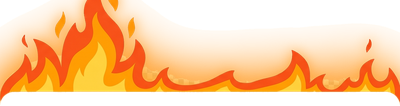
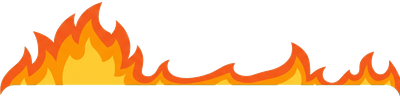
fix(report-share): ảnh lửa bỏ quầng hào quang, giữ trọn đỉnh lửa
Người dùng xuất ảnh thật rồi báo hai lỗi, và gửi ảnh nguồn mới đã hạ
bớt chiều cao ngọn lửa.

1. Đỉnh lửa bị cắt — LỖI CỦA TÔI: crop từ y=560 trong khi lửa bắt đầu ở
   y=487, tức tự tay cắt mất 73px đỉnh để tiết kiệm chiều cao thẻ. Nay
   crop chừa 8px phía trên ngọn cao nhất.
2. Quầng hào quang xấu — ngưỡng tách nền quá thấp nên giữ lại cả vùng
   sáng mờ quanh lửa. Ngưỡng nay warm-28, loại sạch quầng; mép lửa vẫn
   mượt vì ở mép R-B nhảy 0->200 trong một hai pixel.

Không còn cần bước làm mượt Gaussian: quầng đã bị loại ở ngưỡng nên
không còn gì để lộ vệt bàn cờ. File nhẹ đi 40% (47KB -> 28KB).

Bài học ghi vào checkpoint: khi cắt ảnh có chủ thể chạm mép, phải đo
bounding box của chủ thể trước rồi chừa biên — đừng chọn khung cắt theo
ngân sách bố cục.

Đã chạy thật: typecheck/lint/build exit 0 · Vitest 858/858 · render và
nhìn lại hai tấm thẻ cùng một tấm soi riêng dải lửa.

diff --git a/features/report-share/daily-report-share-card.tsx b/features/report-share/daily-report-share-card.tsx
@@ -267,14 +267,24 @@ const PROGRESS_INNER_HEIGHT = PROGRESS.height - PROGRESS.border * 2;
  *  trong khi lửa có `R ≫ B`. Thanh xanh trong ảnh gốc đã bị cắt bỏ vì thanh
  *  thật phải đổi chiều dài theo `%` và đổi màu theo `status`.
  *
- *  File kết quả: `public/images/flame-strip.png`, 400×106 (2× cỡ hiển thị cho
+ *  ⚠ **HAI LỖI CỦA LƯỢT ĐẦU, đã sửa — đừng lặp lại:**
+ *  1. *Đỉnh lửa bị cụt.* Lượt đầu tôi crop từ `y = 560` trong khi lửa bắt đầu ở
+ *     `y = 487`, tức **tự tay cắt mất 73px đỉnh** để tiết kiệm chiều cao. Người
+ *     dùng phát hiện khi xuất ảnh thật. Nay crop chừa **8px phía trên** ngọn cao
+ *     nhất, và ảnh nguồn cũng đã được người dùng hạ bớt chiều cao lửa.
+ *  2. *Quầng hào quang.* Ngưỡng tách nền cũ (12) giữ lại cả vùng sáng mờ quanh
+ *     lửa; người dùng nói thẳng *"nhìn xấu quá"*. Ngưỡng nay là **28**, loại
+ *     sạch phần mờ mà mép lửa vẫn mượt (ở mép `R − B` nhảy 0→200 trong một hai
+ *     pixel, không chuyển dần như quầng).
+ *
+ *  File kết quả: `public/images/flame-strip.png`, 400×99 (2× cỡ hiển thị cho
  *  nét), đã ghim vào bundle qua `outputFileTracingIncludes` trong `next.config.ts`.
  */
 const FLAME_STRIP = {
   /** Bằng đúng bề ngang thanh — ảnh đã được cắt theo mép thanh của ảnh gốc. */
   width: 200,
-  /** Giữ đúng tỉ lệ 400×106 của file. */
-  height: 53,
+  /** Giữ đúng tỉ lệ 400×99 của file. */
+  height: 50,
 } as const;
 
 /** Chiều cao dải lửa — quyết định khoảng trống phải chừa phía trên thanh. */

diff --git a/WORKLOG.md b/WORKLOG.md
@@ -2730,3 +2730,18 @@ ghép 13 lưỡi SVG và nói thẳng *"xấu quá"*, rồi tự gửi một ả
   `outputFileTracingIncludes`. `flameSrc = null` ⇒ vẫn vẽ thanh, chỉ mất lửa.
 - Ảnh gốc 6,7 MB đã dời khỏi repo; thông số cắt ghi đủ trong DEC-069 để tái lập.
 - typecheck/lint/build exit 0; Vitest **858/858**; đã render và nhìn hai tấm thẻ + một tấm soi riêng dải lửa.
+
+**Bổ sung lần 3 (Entry 029d) — ảnh lửa bản 2.** Người dùng xuất ảnh thật rồi báo hai lỗi và gửi ảnh nguồn
+mới đã hạ bớt chiều cao ngọn lửa:
+
+1. *"cái ngọn cao nhất của lửa bị cắt đi"* — **lỗi của tôi**: crop từ `y = 560` trong khi lửa bắt đầu ở
+   `y = 487`, tức tự tay cắt mất 73px đỉnh để tiết kiệm chiều cao thẻ. Nay crop chừa 8px trên ngọn cao nhất.
+2. *"vầng hào quang nhìn xấu quá"* — ngưỡng tách nền quá thấp nên giữ cả vùng sáng mờ. Ngưỡng nay `warm−28`,
+   loại sạch quầng; mép lửa vẫn mượt vì ở mép `R−B` nhảy 0→200 trong một hai pixel.
+
+Kết quả: `flame-strip.png` 400×99 (28 KB, nhẹ hơn bản trước 40%), hiển thị 200×50. Không còn cần bước làm
+mượt Gaussian vì quầng đã bị loại ở ngưỡng. typecheck/lint/build exit 0; Vitest **858/858**; đã render và
+nhìn lại hai tấm thẻ + một tấm soi riêng dải lửa.
+
+**Bài học ghi vào checkpoint:** khi cắt ảnh có chủ thể chạm mép, phải **đo bounding box của chủ thể trước**
+rồi chừa biên — đừng chọn khung cắt theo ngân sách bố cục.

diff --git a/SESSION_CHECKPOINT.md b/SESSION_CHECKPOINT.md
@@ -35,8 +35,14 @@ vào thân thanh.
 cháy lệch so với các dòng khác — đúng "đụng hàng" mà người dùng dặn tránh — và lửa sẽ chạm vào nhãn chữ.
 
 ⚠ **Ảnh nguồn không thực sự trong suốt** — hoa văn bàn cờ là pixel xám thật. Đã tách bằng hiệu **`R − B`**
-(nền xám có `R = B` nên triệt tiêu hoàn toàn), rồi làm mượt Gaussian chỉ ở vùng quầng để khử vệt bàn cờ
-còn sót do nén. Thông số cắt đầy đủ ở `docs/11 § DEC-069 bản cuối`; ảnh gốc 6,7 MB **không** nằm trong repo.
+(nền xám có `R = B` nên triệt tiêu hoàn toàn) với ngưỡng **28** — ngưỡng thấp hơn giữ lại quầng hào quang
+mà người dùng đã bác *"nhìn xấu quá"*. Thông số cắt đầy đủ ở `docs/11 § DEC-069 ảnh lửa bản 2`; ảnh gốc
+**không** nằm trong repo.
+
+⚠ **BÀI HỌC — đừng crop ảnh theo ngân sách bố cục.** Lượt đầu tôi crop từ `y = 560` trong khi lửa bắt đầu
+ở `y = 487`, tức **tự tay cắt mất 73px đỉnh lửa** để thẻ đỡ cao; người dùng phát hiện khi xuất ảnh thật.
+Phải **đo bounding box của chủ thể trước** rồi chừa biên, và điều chỉnh ngân sách cho vừa chủ thể — không
+phải ngược lại.
 
 ⚠ **`./public/images/**` phải ở trong `outputFileTracingIncludes`** (`next.config.ts`) — thiếu là Vercel
 ném `ENOENT` dù build xanh.
